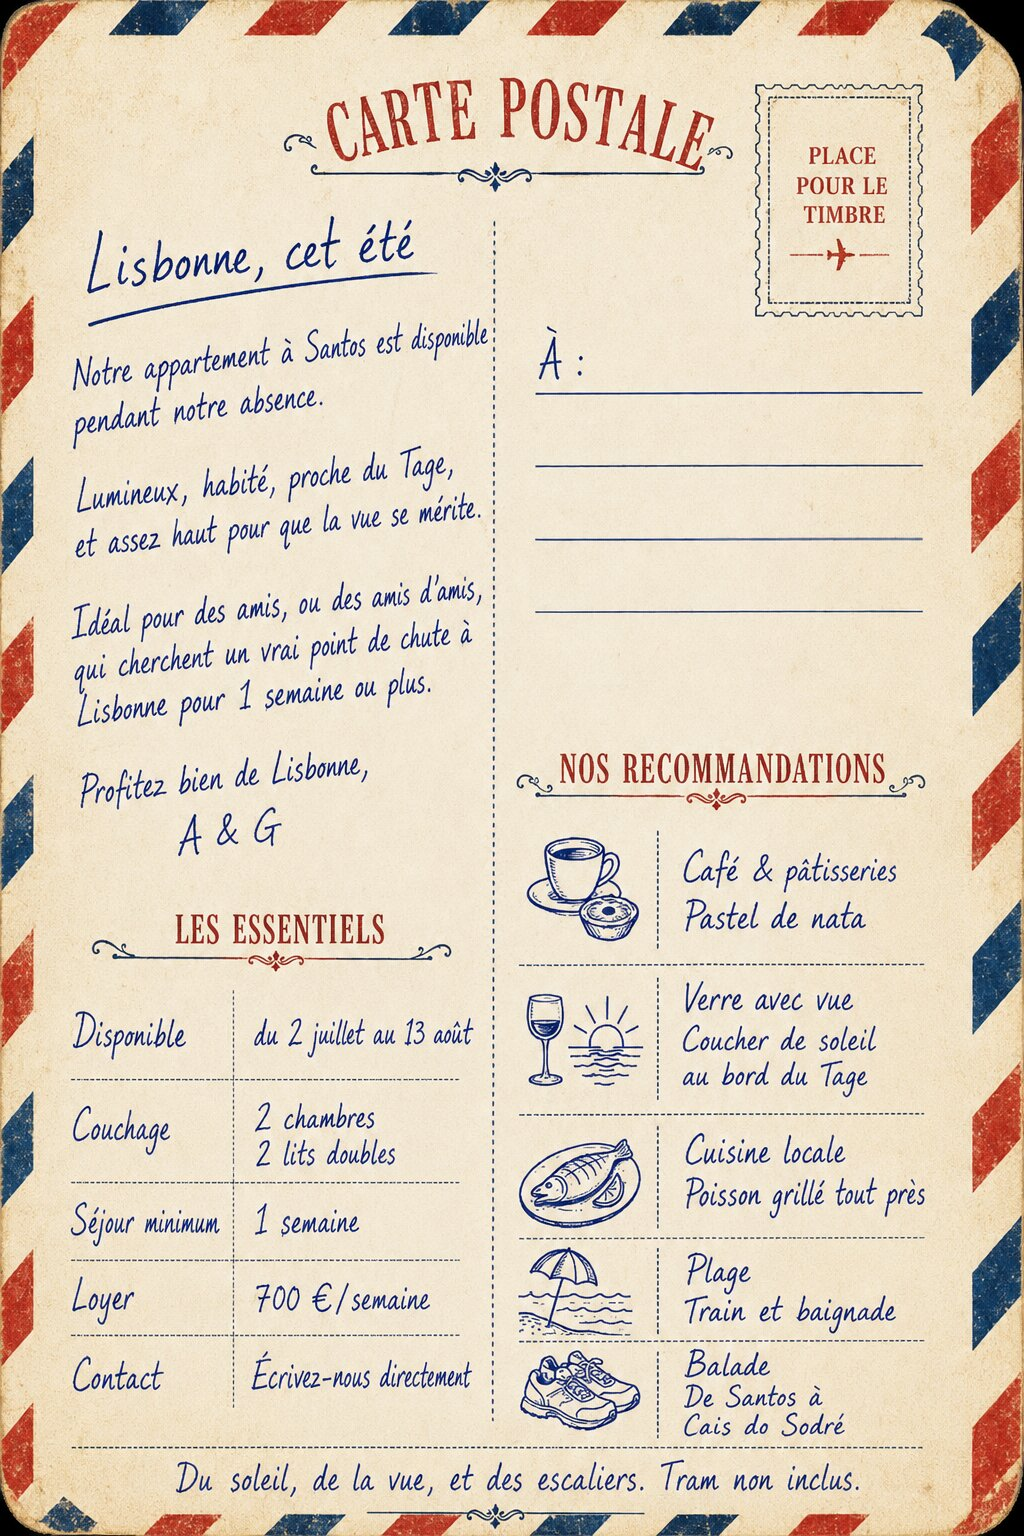
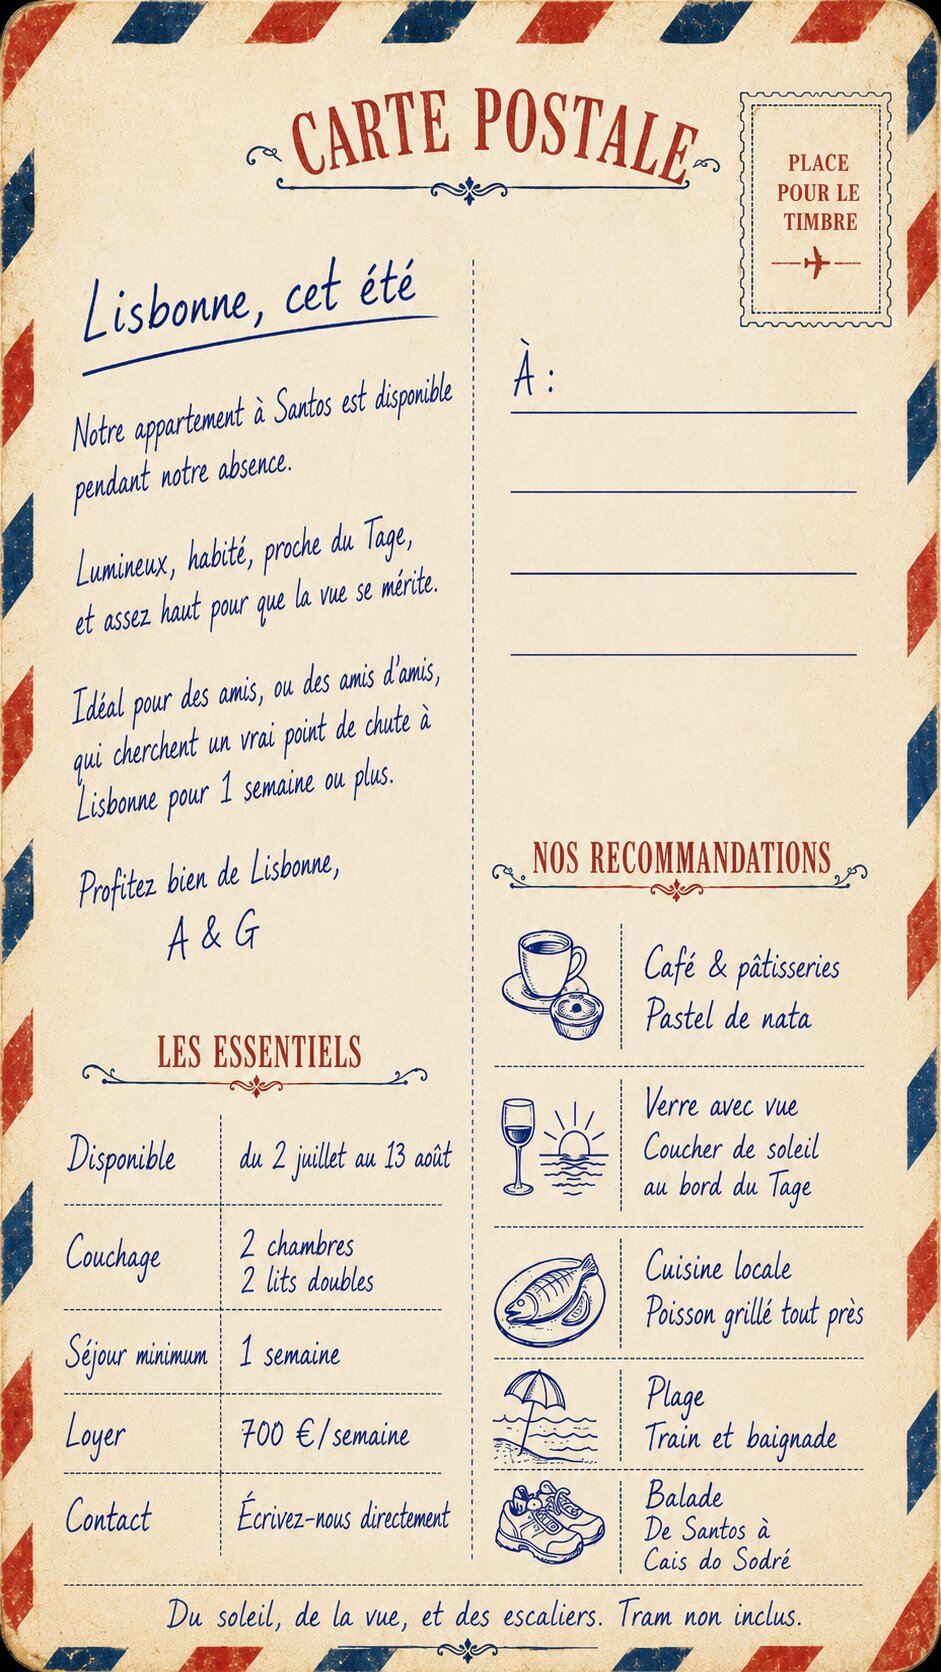
Replace FR portrait back with 9:16 version, remove letterbox + card shadow
- assets/postcard-back-fr-portrait.jpg replaced from
  vertical_back_02_fr_b.png (941x1672, exactly 9:16 — fills the
  portrait frame, no letterbox)
- Removed @media (orientation: portrait) #back-fr object-fit: contain
  rule (no longer needed)
- Removed Tailwind shadow class on the card button — the postcard
  artwork already paints its own shadow, the doubled effect was
  visible at the bottom edge
- Cache buster ?v=5 -> ?v=6

Changed region(s): [[0.0, 0.0, 1.0, 1.0], [0.5239, 0.3438, 0.8937, 0.4062], [0.5239, 0.2188, 0.8937, 0.3125]]

diff --git a/index.html b/index.html
@@ -7,20 +7,20 @@
   <title>Lisbon, this summer — a place to stay</title>
   <meta name="description" content="Bright, lived-in flat in Santos. Available 2 July to 13 August. Friends and friends of friends.">
 
-  <link rel="icon" type="image/x-icon" href="/favicon.ico?v=5">
-  <link rel="icon" type="image/png" sizes="16x16" href="/favicon-16x16.png?v=5">
-  <link rel="icon" type="image/png" sizes="32x32" href="/favicon-32x32.png?v=5">
-  <link rel="apple-touch-icon" sizes="180x180" href="/apple-touch-icon.png?v=5">
-  <link rel="manifest" href="/site.webmanifest?v=5">
+  <link rel="icon" type="image/x-icon" href="/favicon.ico?v=6">
+  <link rel="icon" type="image/png" sizes="16x16" href="/favicon-16x16.png?v=6">
+  <link rel="icon" type="image/png" sizes="32x32" href="/favicon-32x32.png?v=6">
+  <link rel="apple-touch-icon" sizes="180x180" href="/apple-touch-icon.png?v=6">
+  <link rel="manifest" href="/site.webmanifest?v=6">
   <meta name="theme-color" content="#f3eee8">
-  <link rel="stylesheet" href="/style.css?v=5">
+  <link rel="stylesheet" href="/style.css?v=6">
 
   <!-- Open Graph -->
   <meta property="og:type" content="website">
   <meta property="og:title" content="A place to stay in Lisbon — this summer">
   <meta property="og:description" content="Bright, lived-in flat in Santos. Available 2 July to 13 August. Friends and friends of friends.">
   <meta property="og:url" content="https://lisbon.milizone.com/">
-  <meta property="og:image" content="https://lisbon.milizone.com/assets/og-image.jpg?v=5">
+  <meta property="og:image" content="https://lisbon.milizone.com/assets/og-image.jpg?v=6">
   <meta property="og:image:width" content="1200">
   <meta property="og:image:height" content="630">
   <meta property="og:image:alt" content="Lisbon postcard — A place to stay in Lisbon">
@@ -29,7 +29,7 @@
   <meta name="twitter:card" content="summary_large_image">
   <meta name="twitter:title" content="A place to stay in Lisbon — this summer">
   <meta name="twitter:description" content="Bright, lived-in flat in Santos. Available 2 July to 13 August. Friends and friends of friends.">
-  <meta name="twitter:image" content="https://lisbon.milizone.com/assets/og-image.jpg?v=5">
+  <meta name="twitter:image" content="https://lisbon.milizone.com/assets/og-image.jpg?v=6">
   <meta name="twitter:image:alt" content="Lisbon postcard — A place to stay in Lisbon">
 
   <script src="https://cdn.tailwindcss.com"></script>
@@ -53,32 +53,32 @@
         type="button"
         aria-pressed="false"
         aria-label="Show back of postcard"
-        class="card group block rounded-lg shadow-[0_10px_30px_-12px_rgba(0,0,0,0.35)] focus-visible:outline focus-visible:outline-2 focus-visible:outline-offset-4 focus-visible:outline-blue-700"
+        class="card group block focus-visible:outline focus-visible:outline-2 focus-visible:outline-offset-4 focus-visible:outline-blue-700"
       >
         <div class="card-inner relative w-full h-full">
           <picture>
-            <source media="(orientation: portrait)" srcset="/assets/postcard-front-portrait.jpg?v=5">
+            <source media="(orientation: portrait)" srcset="/assets/postcard-front-portrait.jpg?v=6">
             <img
               class="card-face card-face--front absolute inset-0 w-full h-full rounded-lg"
-              src="/assets/postcard-front.jpg?v=5"
+              src="/assets/postcard-front.jpg?v=6"
               alt='Postcard front — collage of Lisbon scenes with the title "A place to stay in Lisbon, this summer."'
             >
           </picture>
           <picture>
-            <source media="(orientation: portrait)" srcset="/assets/postcard-back-portrait.jpg?v=5">
+            <source media="(orientation: portrait)" srcset="/assets/postcard-back-portrait.jpg?v=6">
             <img
               id="back-en"
               class="card-face card-face--back absolute inset-0 w-full h-full rounded-lg"
-              src="/assets/postcard-back.jpg?v=5"
+              src="/assets/postcard-back.jpg?v=6"
               alt="Postcard back (English) — welcome guide with check-in details, WiFi, and local recommendations."
             >
           </picture>
           <picture>
-            <source media="(orientation: portrait)" srcset="/assets/postcard-back-fr-portrait.jpg?v=5">
+            <source media="(orientation: portrait)" srcset="/assets/postcard-back-fr-portrait.jpg?v=6">
             <img
               id="back-fr"
               class="card-face card-face--back absolute inset-0 w-full h-full rounded-lg"
-              src="/assets/postcard-back-fr.jpg?v=5"
+              src="/assets/postcard-back-fr.jpg?v=6"
               alt="Verso de la carte postale (français) — note manuscrite décrivant un appartement à Santos disponible du 2 juillet au 13 août, 2 chambres, 700 euros par semaine."
               hidden
             >

diff --git a/style.css b/style.css
@@ -39,15 +39,6 @@
   transform: rotateY(180deg);
 }
 
-@media (orientation: portrait) {
-  /* FR portrait back is 2:3 vs the 9:16 frame; letterbox so text
-     stays readable. EN portrait back matches the frame and uses the
-     default cover. */
-  #back-fr {
-    object-fit: contain;
-  }
-}
-
 @media (prefers-reduced-motion: reduce) {
   .card-inner {
     transition: none;
